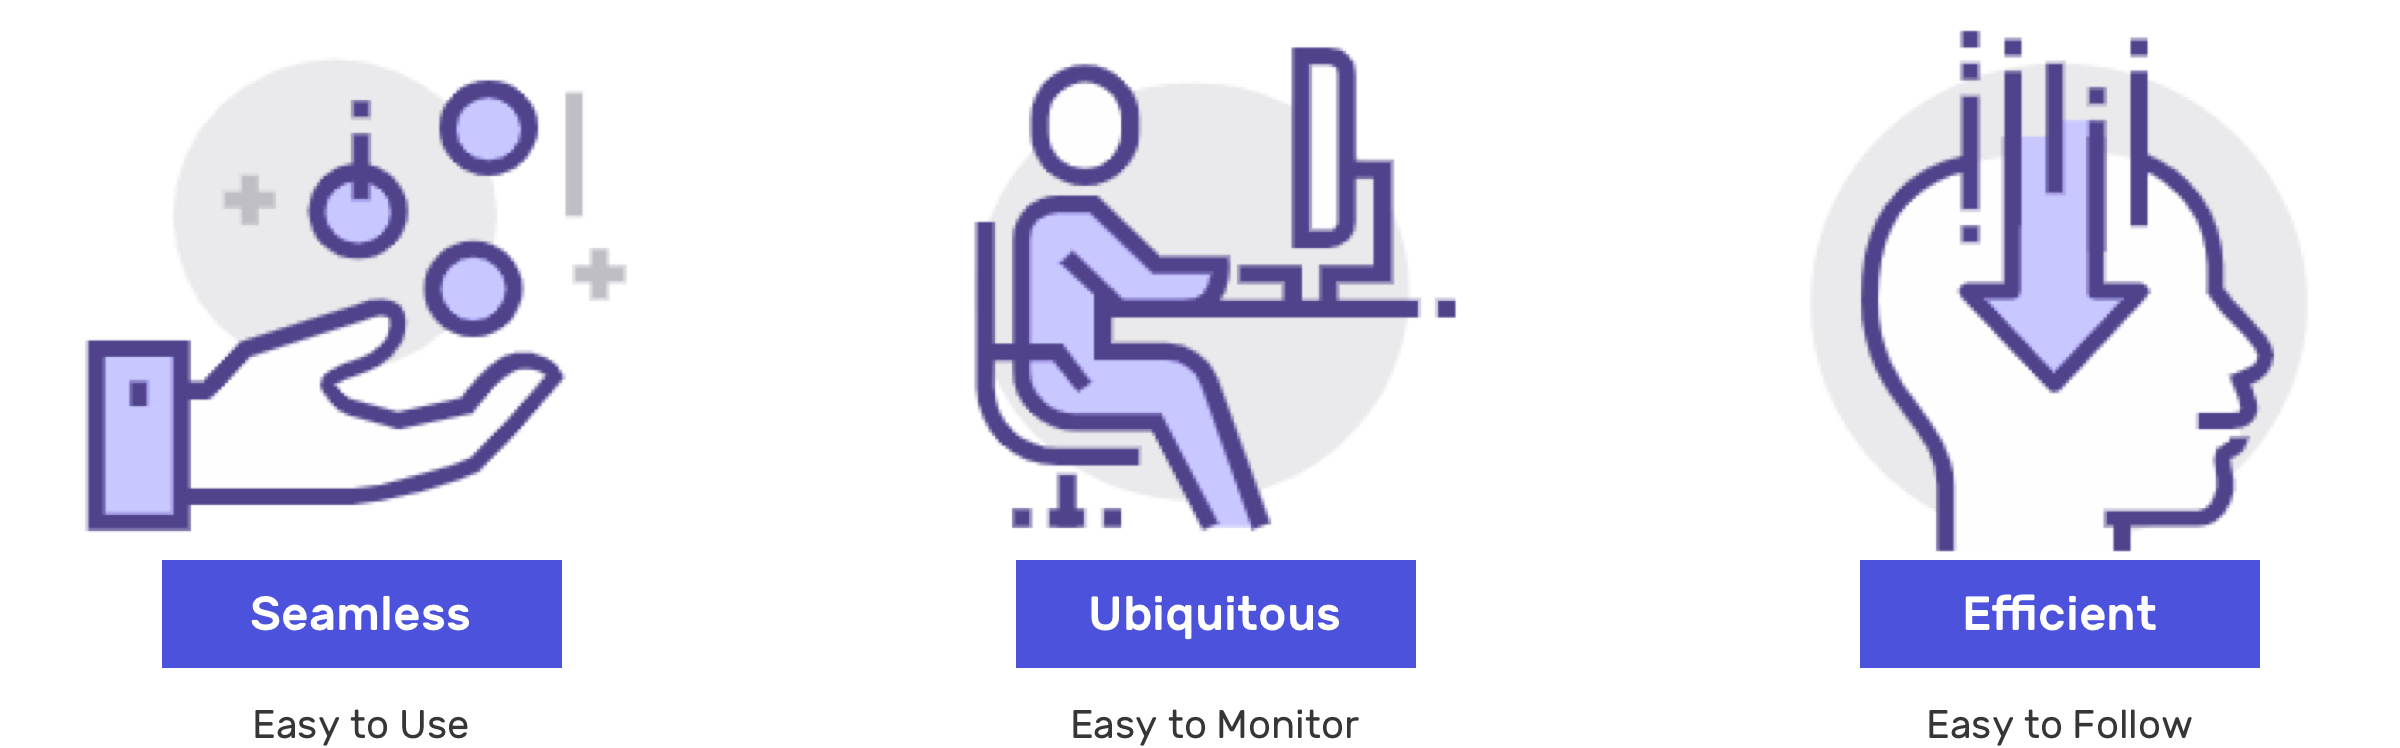
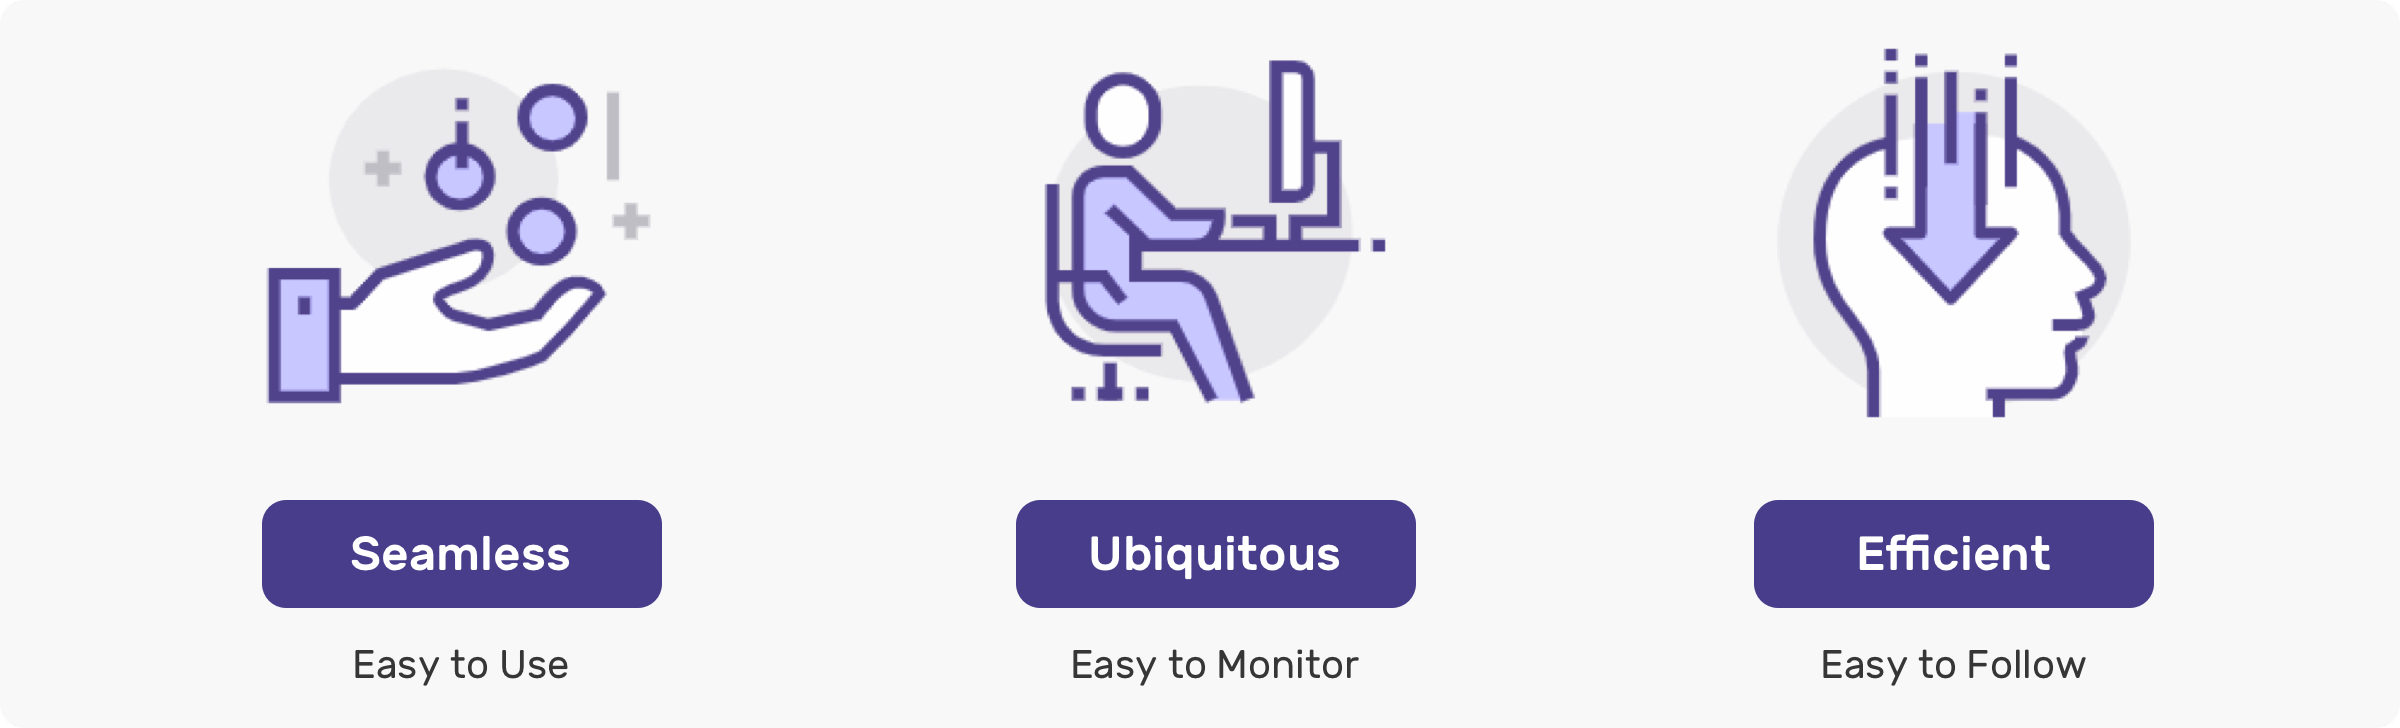
thpk

Changed region(s): [[0.0312, 0.0907, 0.2812, 0.9973], [0.7188, 0.0302, 0.9688, 0.9973], [0.4062, 0.0604, 0.625, 0.9973]]

diff --git a/thpk.html b/thpk.html
@@ -152,6 +152,8 @@ h5{color:#00BFFF}
 	3. Because of the potential of still being <span>disturbed</span> after a solving problem, people <span>hesitate to post their contact information</span> on public platforms. 
 </p>
 			<h5>Solution</h5>
+			<h4>| Side-by-Side Comparison</h4>
+			<img src="img/thpk/images/A6.jpg" width="100%"> 
 			<h3>Marketplace is a feature in THPK-Help Wechat Mini-Program.</h3>
 			 <p>It's a mobile-end information aggregator that provides on on-campus and off-campus information sharing, including: problem solving, second-hand selling and exchanging, dating and friends making, part-time job recruiting, topics sharing, activities and events, for students who are studying at THU and PKU, the most famous universities in China which both located in the WU DAO KOU area in Beijing.</p>
 <br><br><br><br>

diff --git a/xia.html b/xia.html
@@ -303,11 +303,17 @@ Specifically, I focused on bridging the gap between <span>people's current under
 			     		<h1>Develop</h1>
 			     		<h2>Design Principles</h2>
 			     		 <img src="img/xia/images/D8.jpg" width="100%">
+			     		</div></div>
+			     		  <div class="col-lg-6">
+			     		  		<div class="portfolio-details3">
 			     		<h2>User Journey</h2>
 			     		<p>Based on the research results, there should be 4 main stages in the user journey.
 			     			<br>
 			     			<span>Set-up</span> before using, and <span>track, reflect, adjust</span> while using. </p>
-
+			     		</div></div>
+			     			 <div class="col-lg-6">
+ <img src="img/xia/images/D9.jpg" width="100%">
+</div>
 </div></div>
 
 			</div></div>
